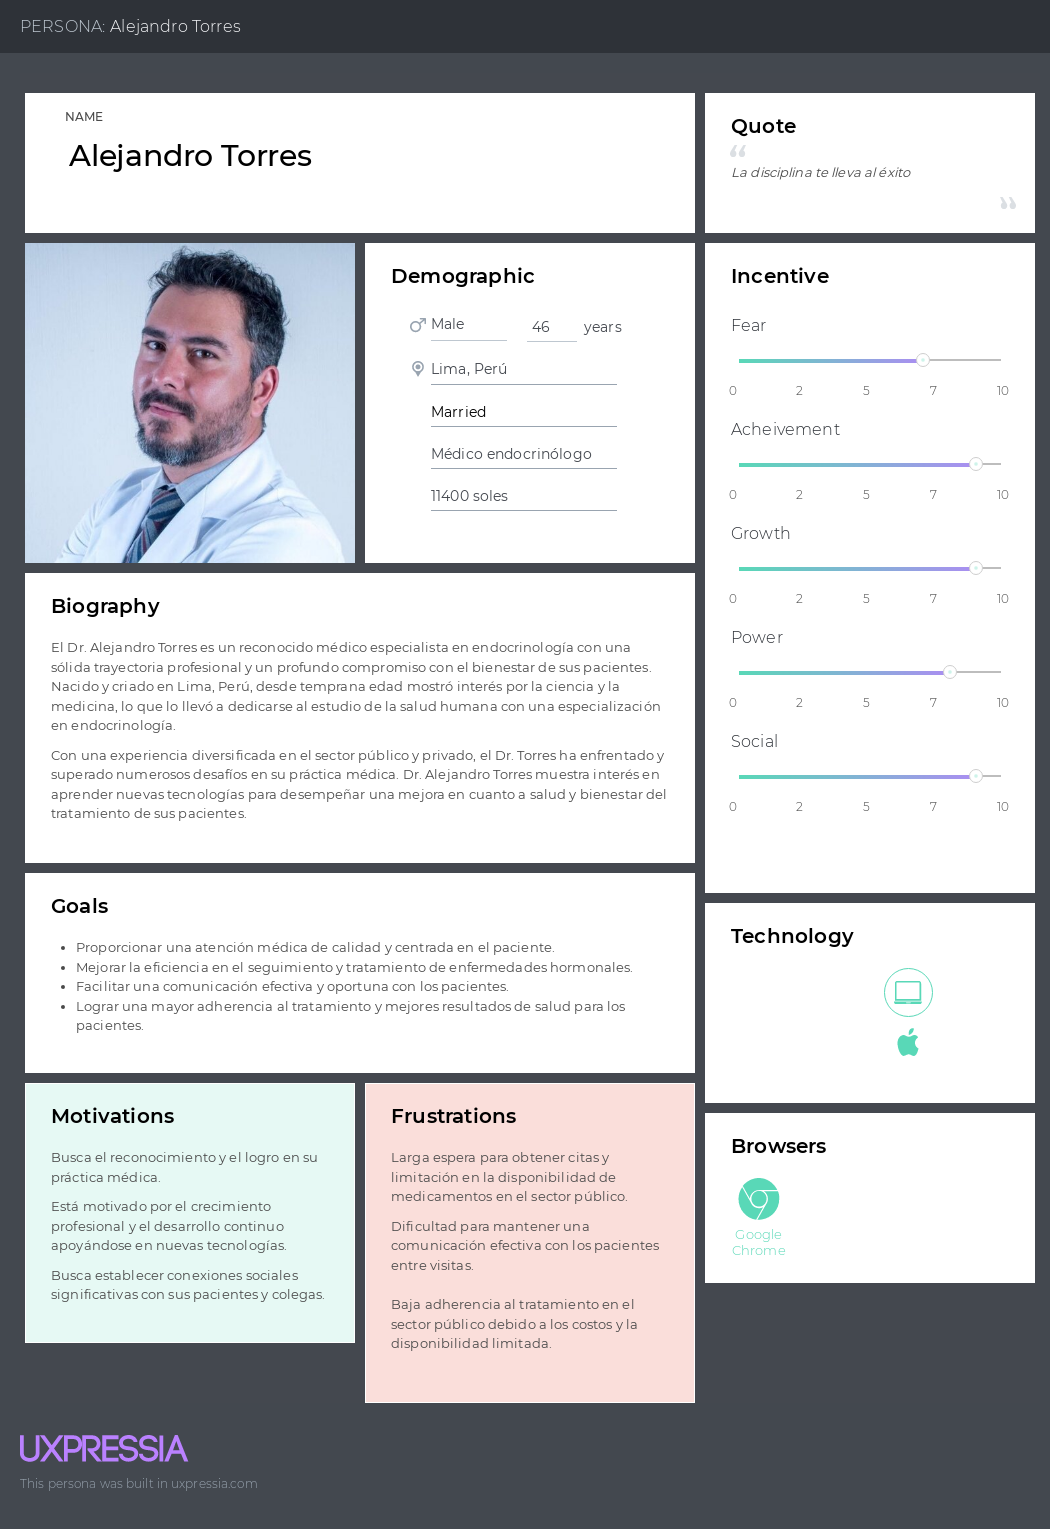
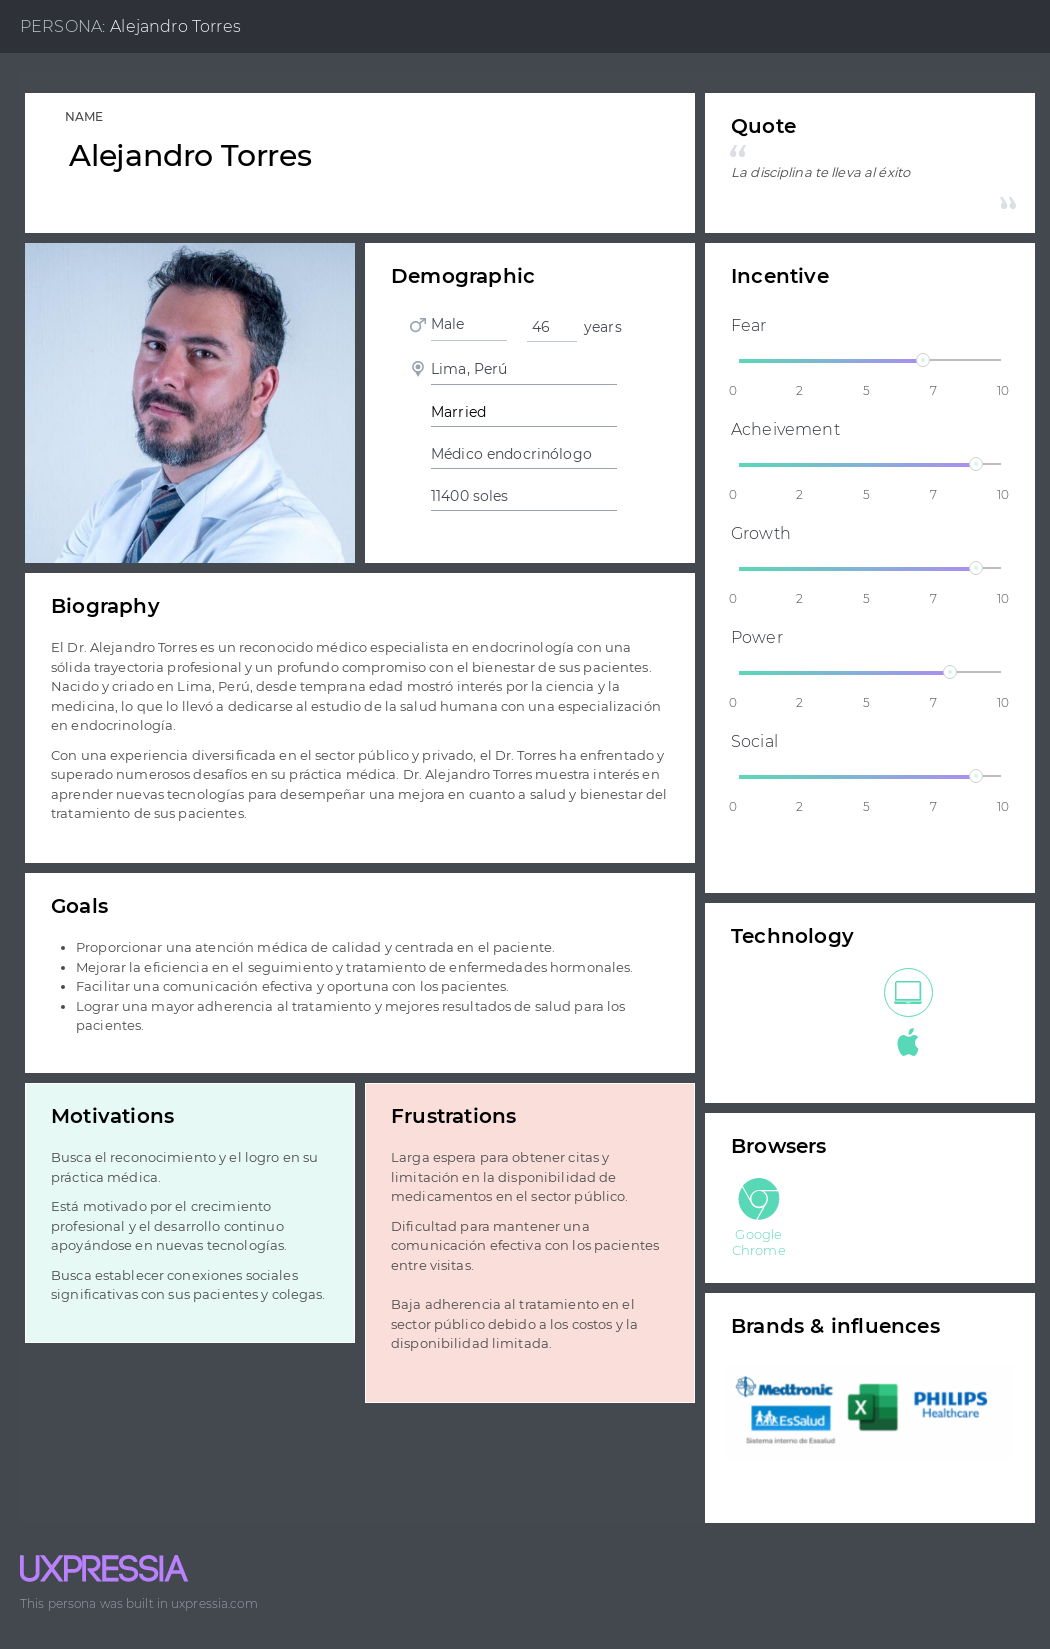
Fix(READEME.md): include brands & influences in User Personas

diff --git a/README.md b/README.md
@@ -730,7 +730,7 @@ Finalmente, se realizó una encuesta de Formulario de Google para la obtención 
 <img src="images/Paciente quesistemaoperativousamas.png">
 </center>
 
-[Resultados de las respuesta de los pacientes](https://docs.google.com/spreadsheets/d/18ymG7icz4uSKDMLTZHZjehKpsIX3hhprjjFXo9H5tQ8/edit?usp=sharing)
+Resultados de las respuesta de los pacientes: https://docs.google.com/spreadsheets/d/18ymG7icz4uSKDMLTZHZjehKpsIX3hhprjjFXo9H5tQ8/edit?usp=sharing
 
 ##### >Segmento de usuario – Médicos endocrinólogos.
 Conclusión:
@@ -794,7 +794,7 @@ Finalmente, se realizó una encuesta de Formulario de Google para la obtención 
 <img src="images/Medico cualessunavegadorwebfavorito.png">
 </center>
 
-[Resultados de las respuestas de los médicos](https://docs.google.com/spreadsheets/d/1AG_PKOa8czbNz00sYfzPndJZ8FENAuJ3JxAp0Lld1-Y/edit?usp=sharing)
+Resultados de las respuestas de los médicos: https://docs.google.com/spreadsheets/d/1AG_PKOa8czbNz00sYfzPndJZ8FENAuJ3JxAp0Lld1-Y/edit?usp=sharing
 
 
 
@@ -807,13 +807,13 @@ La creación de User Personas es una práctica fundamental para comprender las n
 
 <img src="images/User Persona Paciente Juan Pérez.png">
 
-[Enlace User Persona Paciente](https://drive.google.com/file/d/1af4btl7i7yPwyeY1d4j_AxOK0WOzMXru/view?usp=sharing)
+Enlace User Persona Paciente: https://drive.google.com/file/d/1BVOK0Y27CCRhW_B7TyWO5fIP3flDIwbG/view?usp=sharing
 
 **Segmento médico:**
 
 <img src="images/User Persona Médico Alejandro Torres.png">
 
-[Enlace User Persona Médico](https://drive.google.com/file/d/1Ko71r-6_EvUxjYx1oJl8ELZcGRoFXeo4/view?usp=sharing)
+Enlace User Persona Médico: https://drive.google.com/file/d/1XPcrQL0Lfm-PvvzwE2hlTeC6D1LPRmwk/view?usp=sharing
 
 
 ### 2.3.2.   **User Task Matrix.** 
